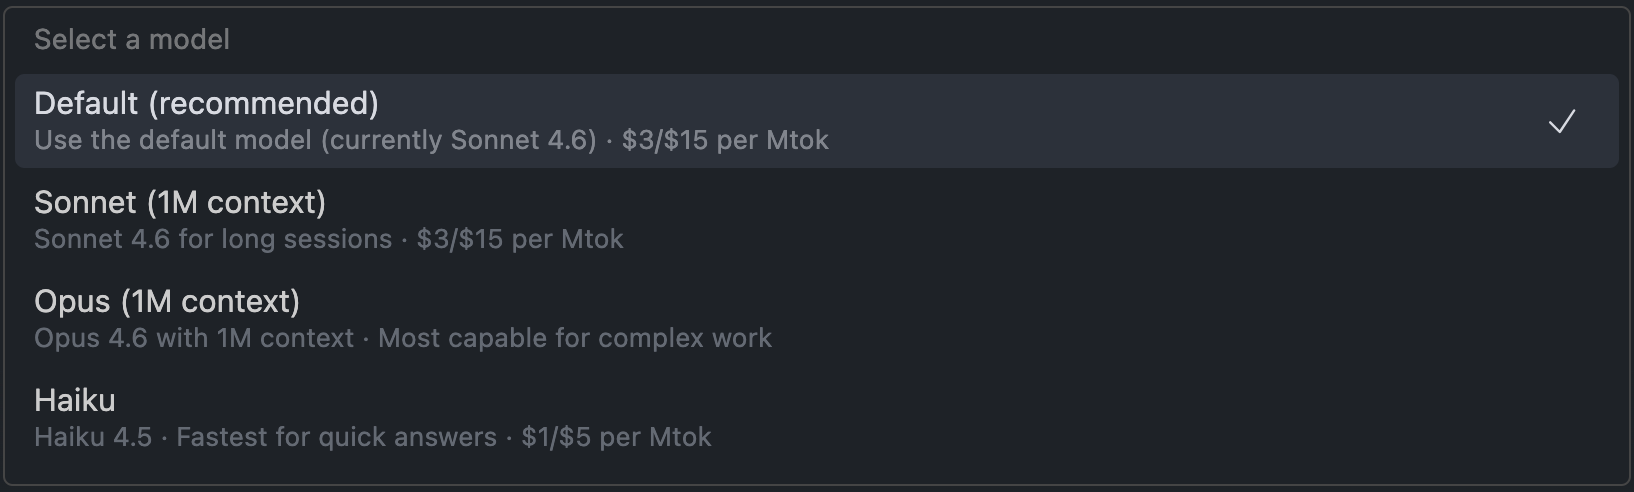
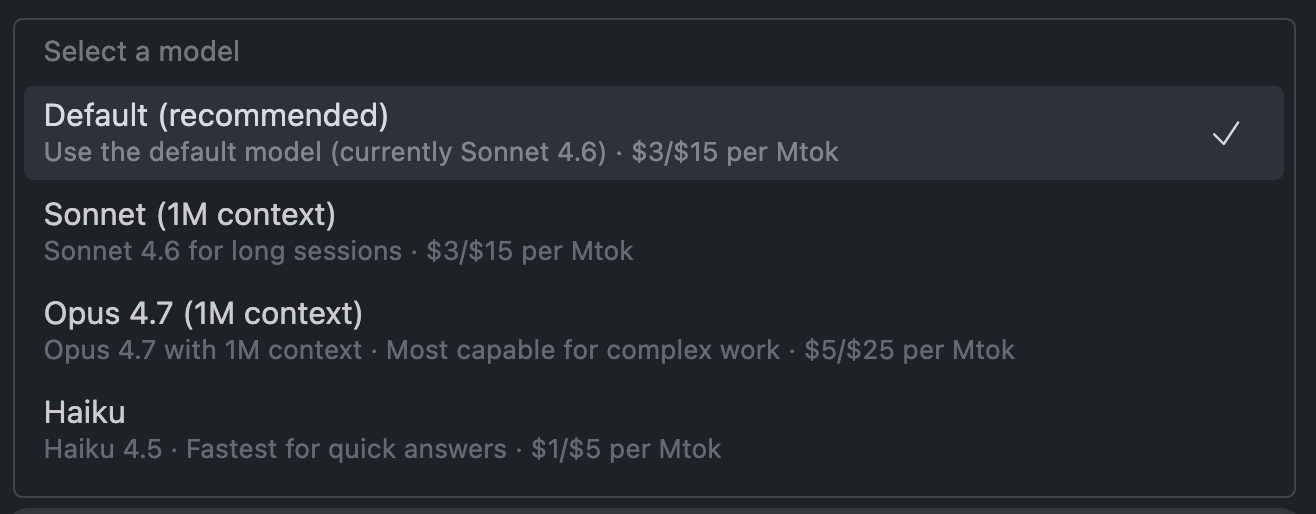
docs: 更新`ai`文档

diff --git a/docs/01.指南/04.其他/04.ai.md b/docs/01.指南/04.其他/04.ai.md
@@ -104,12 +104,12 @@ Claude Code for VS Code 图形化界面插件
 
 ##### 对比表格
 
-| 模型选项            | 具体模型   | 上下文长度 | 适合场景                  | 输入价格 (美元/百万token) | 输出价格 (美元/百万token) |
-| ------------------- | ---------- | ---------- | ------------------------- | ------------------------- | ------------------------- |
-| 默认（推荐）        | Sonnet 4.6 | 100万      | 日常使用、性价比最高      | $3                        | $15                       |
-| Sonnet (1M context) | Sonnet 4.6 | 100万      | 长对话、长文档分析        | $3                        | $15                       |
-| Opus (1M context)   | Opus 4.6   | 100万      | 超长上下文 + 最强推理能力 | $5                        | $25                       |
-| Haiku               | Haiku 4.5  | 20万       | 极快响应、简单快速查询    | $1                        | $5                        |
+| 模型选项              | 具体模型   | 上下文长度 | 适合场景                  | 输入价格 (美元/百万token) | 输出价格 (美元/百万token) |
+| --------------------- | ---------- | ---------- | ------------------------- | ------------------------- | ------------------------- |
+| 默认（推荐）          | Sonnet 4.6 | 100万      | 日常使用、性价比最高      | $3                        | $15                       |
+| Sonnet (1M context)   | Sonnet 4.6 | 100万      | 长对话、长文档分析        | $3                        | $15                       |
+| Opus 4.7 (1M context) | Opus 4.7   | 100万      | 超长上下文 + 最强推理能力 | $5                        | $25                       |
+| Haiku                 | Haiku 4.5  | 20万       | 极快响应、简单快速查询    | $1                        | $5                        |
 
 <style scoped>
 #app > div.theme-container.sidebar-open.have-rightmenu > div:nth-child(5) > main > div.theme-vdoing-wrapper > div.content-wrapper > div.theme-vdoing-content.content__default > table:nth-child(35) > thead > tr > th:nth-child(2),
@@ -272,7 +272,7 @@ Claude Code for VS Code 图形化界面插件
 | `Low`    | 最省资源模式，几乎不进行或极少进行深度思考，优先速度和效率 | 思考很少或跳过，快速直接输出               | 简单问题、重复任务、子 agent、快速修改、提取/格式化                           | 最低消耗、最快、最便宜           |
 | `Medium` | 平衡模式，适度思考但明显节省资源                           | 适中深度推理，在简单任务上会减少思考       | 大多数日常编码、中等复杂度 feature、agent 任务、一般调试                      | 中等（比 High 明显节省 30-50%+） |
 | `High`   | 高能力模式，几乎总是进行深度思考                           | 深度步步推导、多次检查、探索多种路径       | 复杂推理、困难 coding 问题、架构设计、诡异 bug、需要高可靠性的 agent 任务     | 较高消耗、较慢、较贵             |
-| `Max`    | 绝对最大能力模式，榨干模型全部潜力（仅 Opus 4.6 独有）     | 最彻底、最多轮次推理、最大搜索空间、无妥协 | 极难问题（如高难度 LeetCode、复杂系统重构、极限 benchmark、最顶尖研究级任务） | 最高消耗、最慢、最贵（峰值性能） |
+| `Max`    | 绝对最大能力模式，榨干模型全部潜力                         | 最彻底、最多轮次推理、最大搜索空间、无妥协 | 极难问题（如高难度 LeetCode、复杂系统重构、极限 benchmark、最顶尖研究级任务） | 最高消耗、最慢、最贵（峰值性能） |
 
 <style scoped>
 #app > div.theme-container.sidebar-open.have-rightmenu > div:nth-child(5) > main > div.theme-vdoing-wrapper > div.content-wrapper > div.theme-vdoing-content.content__default > div:nth-child(75) > table > thead > tr > th:nth-child(3) {
@@ -295,10 +295,6 @@ Claude Code for VS Code 图形化界面插件
 <p class="title7">Account & usage...</p>
 
 账户与用量：可查看你的账户信息、订阅状态、剩余额度、使用记录等。
-
-<p class="title7">Toggle fast mode (Opus 4.6 only)</p>
-
-切换/开启快速模式（仅限`Opus 4.6`模型）：模型智能和回答质量完全不变，仅响应速度提升数倍，但费用更高。
 
 :::
 
